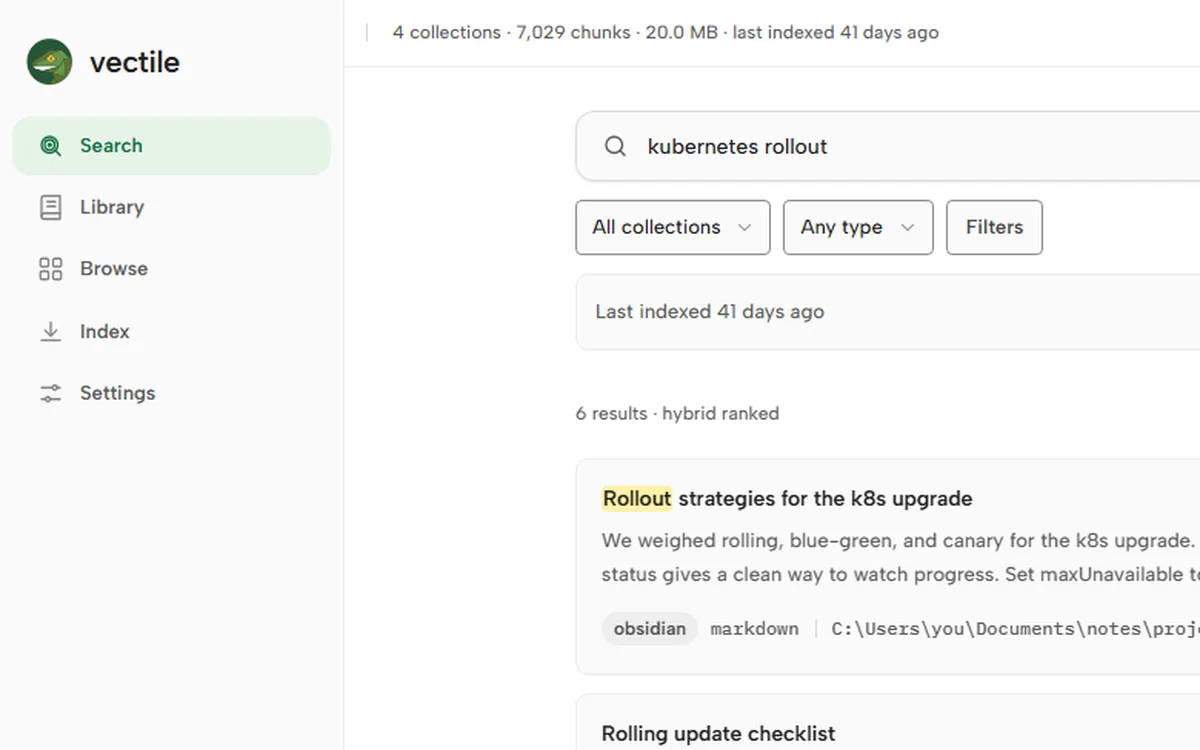
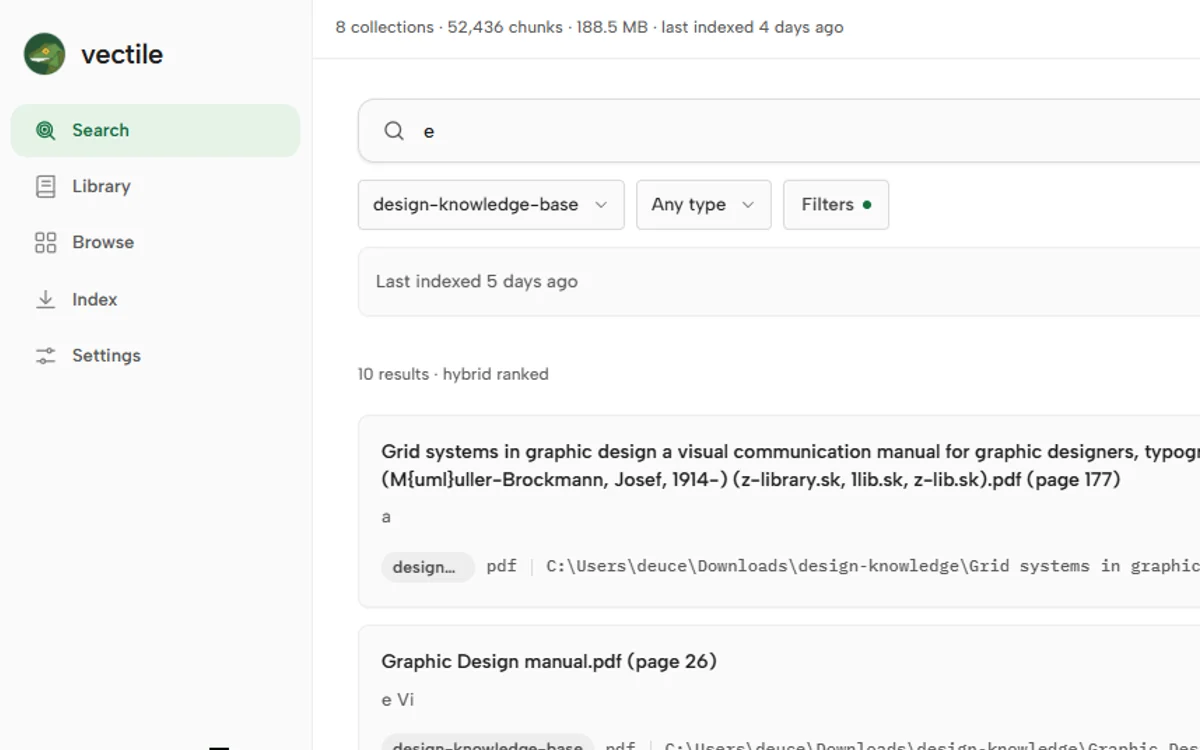
feat: update project descriptions and enhance media assets for improved clarity

diff --git a/lib/site-data.ts b/lib/site-data.ts
@@ -28,7 +28,7 @@ export const products: Product[] = [
     name: "Avnac Studio",
     logo: "/assets/media/logo-avnac.webp",
     shot: "/assets/media/app-avnac.webp",
-    alt: "A web design made in Avnac Studio: a blue and white agency layout with the line 'Websites with depth.'",
+    alt: "Avnac Studio's file grid: finished posters and social graphics, including a Summer Picnic flyer and a birthday card",
     lede: "A design canvas for posters, layouts and social graphics, running as a native desktop app.",
     body: "The web version, moved to Wails and Go so it opens in about a second and never needs a browser tab. Files live in the app's own storage, media goes through the binary, and export uses the real OS save dialog. Over a thousand people have downloaded it.",
     facts: ["Go · Wails · TypeScript", "Windows, macOS, Linux", "1,000+ downloads"],
@@ -40,7 +40,7 @@ export const products: Product[] = [
     name: "Vectile",
     logo: "/assets/media/logo-vectile.webp",
     shot: "/assets/media/app-vectile.webp",
-    alt: "Vectile's search screen, returning ranked passages from notes and books for the query kubernetes rollout",
+    alt: "Vectile's search screen, returning ranked passages from a library of design books and manuals",
     lede: "A private library for everything you've written, read or downloaded, searchable by meaning.",
     body: "Notes, PDFs, books and whole repositories go into one SQLite file and come back ranked by hybrid vector and full-text search. The embedding model runs in the process. No API keys, no upload, no server to keep alive.",
     facts: ["Go · SQLite · FTS5 + vectors", "Windows, macOS, Linux", "MCP server for local agents"],

diff --git a/README.md b/README.md
@@ -74,5 +74,6 @@ public/assets/
 ## Media
 
 Screenshots come from each project's own repository (or its live site) and are
-cropped to 16:10. The Avnac plate is a web design made in Avnac. Logos are
-normalised to 192×192 tiles on white so they sit consistently on ink.
+cropped to 16:10. Avnac's are two screenshots of the app itself, cropped to the
+file grid and to the canvas. Logos are normalised to 192×192 tiles on white so
+they sit consistently on ink.
